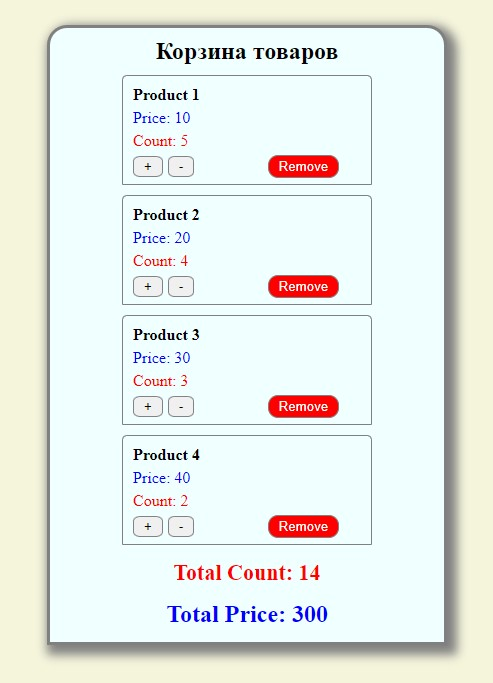
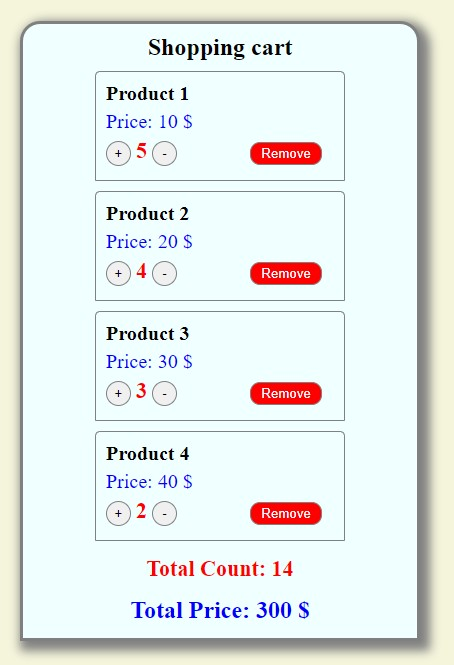
update hw2501

Changed region(s): [[0.0308, 0.0, 0.9559, 0.9925]]

diff --git a/HomeWork/hw2501/src/components/ProductCard/ProductCard.jsx b/HomeWork/hw2501/src/components/ProductCard/ProductCard.jsx
@@ -17,11 +17,13 @@ export default function ProductCard({ id, title, price, count, updateBasket, han
   return (
     <div className={p.card}>
       <h3 className={p.titel}>{title}</h3>
-      <p className={p.price}>Price: {price}</p>
-      <p className={p.count}>Count: {count}</p>
-      <button className={p.button1} onClick={handleIncrease}>+</button>
-      <button className={p.button1} onClick={handleDecrease}>-</button>
-      <button className={p.button2} onClick={() => handleRemove(id)}>Remove</button>
+      <p className={p.price}>Price: {price} $</p>
+      <div>
+        <button className={p.button1} onClick={handleIncrease}>+</button>
+        <span className={p.count}>{count}</span>
+        <button className={p.button1} onClick={handleDecrease}>-</button>
+        <button className={p.button2} onClick={() => handleRemove(id)}>Remove</button>
+        </div>
     </div>
   );
 };

diff --git a/HomeWork/hw2501/src/components/Basket/Basket.jsx b/HomeWork/hw2501/src/components/Basket/Basket.jsx
@@ -26,7 +26,7 @@ export default function Basket({ products })
 
   return (
     <div className={b.card}>
-      <h2>Корзина товаров</h2>
+      <h2>Shopping cart</h2>
       {basket.map((product) => (
         <ProductCard
           key={product.id}
@@ -39,7 +39,7 @@ export default function Basket({ products })
         />
       ))}
       <p className={b.total_count}>Total Count: {totalCount}</p>
-      <p className={b.total_price}>Total Price: {totalPrice}</p>
+      <p className={b.total_price}>Total Price: {totalPrice} $</p>
     </div>
   );
 };

diff --git a/HomeWork/hw2501/src/components/ProductCard/ProductСard.module.css b/HomeWork/hw2501/src/components/ProductCard/ProductСard.module.css
@@ -8,27 +8,30 @@
   margin-bottom: 10px;
 }
 .titel {
-  font-size: 16px;
+  font-size: 20px;
   font-weight: 700;
   color: black;
   margin-bottom: 5px;
 }
 
 .price {
-  font-size: 16px;
+  font-size: 20px;
   color: blue;
   margin-bottom: 5px;
 }
 
 .count {
-  font-size: 16px;
+  font-size: 22px;
   color: red;
+  font-weight: 700;
   margin-bottom: 5px;
+  margin-right: 5px;
 }
 
 .button1 {
-  padding: 2px 10px;
-  border-radius: 25%;
+  width: 25px;
+  height: 25px;
+  border-radius: 50%;
   border: 1px solid gray;
   margin-right: 5px;
   cursor: pointer;

diff --git a/HomeWork/hw2501/readme.md b/HomeWork/hw2501/readme.md
@@ -2,10 +2,11 @@
 
 HW-25.01
 [-Code-](<https://github.com/St-ton/REACT/tree/master/HomeWork/hw2501/src>) | 
-[-WWW-](<>)<br/>
+<!-- [-WWW-](<>)<br/> -->
 
 Необходимо реализовать React приложение с корзиной. Данные грузятся из массива (массив из объектов со свойствами id, title, price, count).
 На карточках с товарами должны быть кнопки, которые позволяют увеличивать или уменьшать количество товара в корзине. Если количество достигло нуля, товар должен удалиться.
 Внизу должно отображаться общее количество товаров и общая цена.
 
-<p align="left"><img src="https://github.com/St-ton/REACT/blob/master/HomeWork/hw2501/hw2501.jpeg" width="500"></p>
+<p align="left"><img src="https://github.com/St-ton/REACT/blob/master/HomeWork/hw201/hw201.jpeg" width="500"></p>
+
